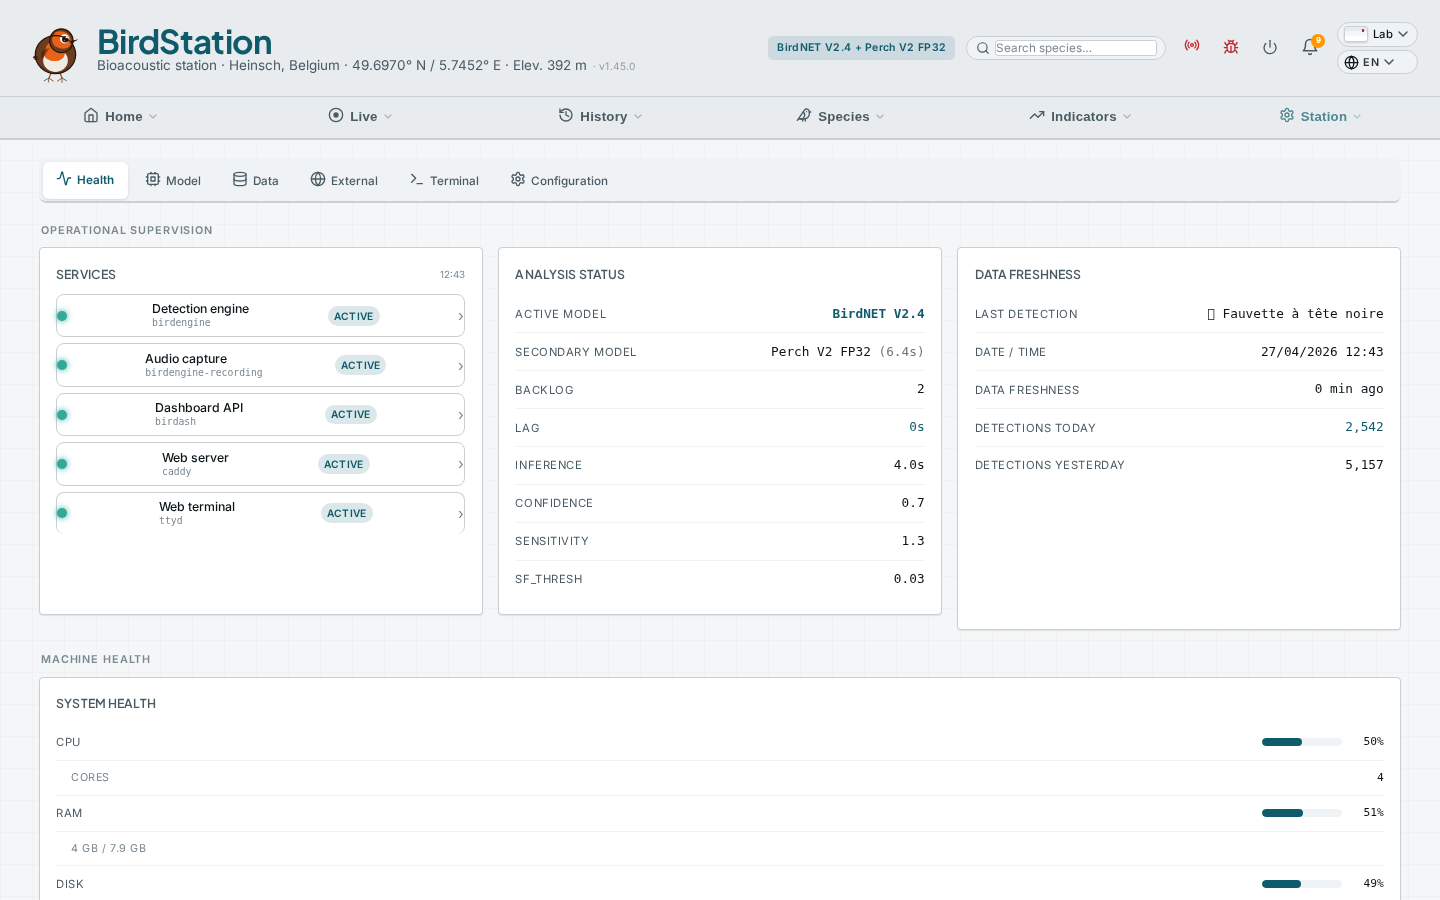
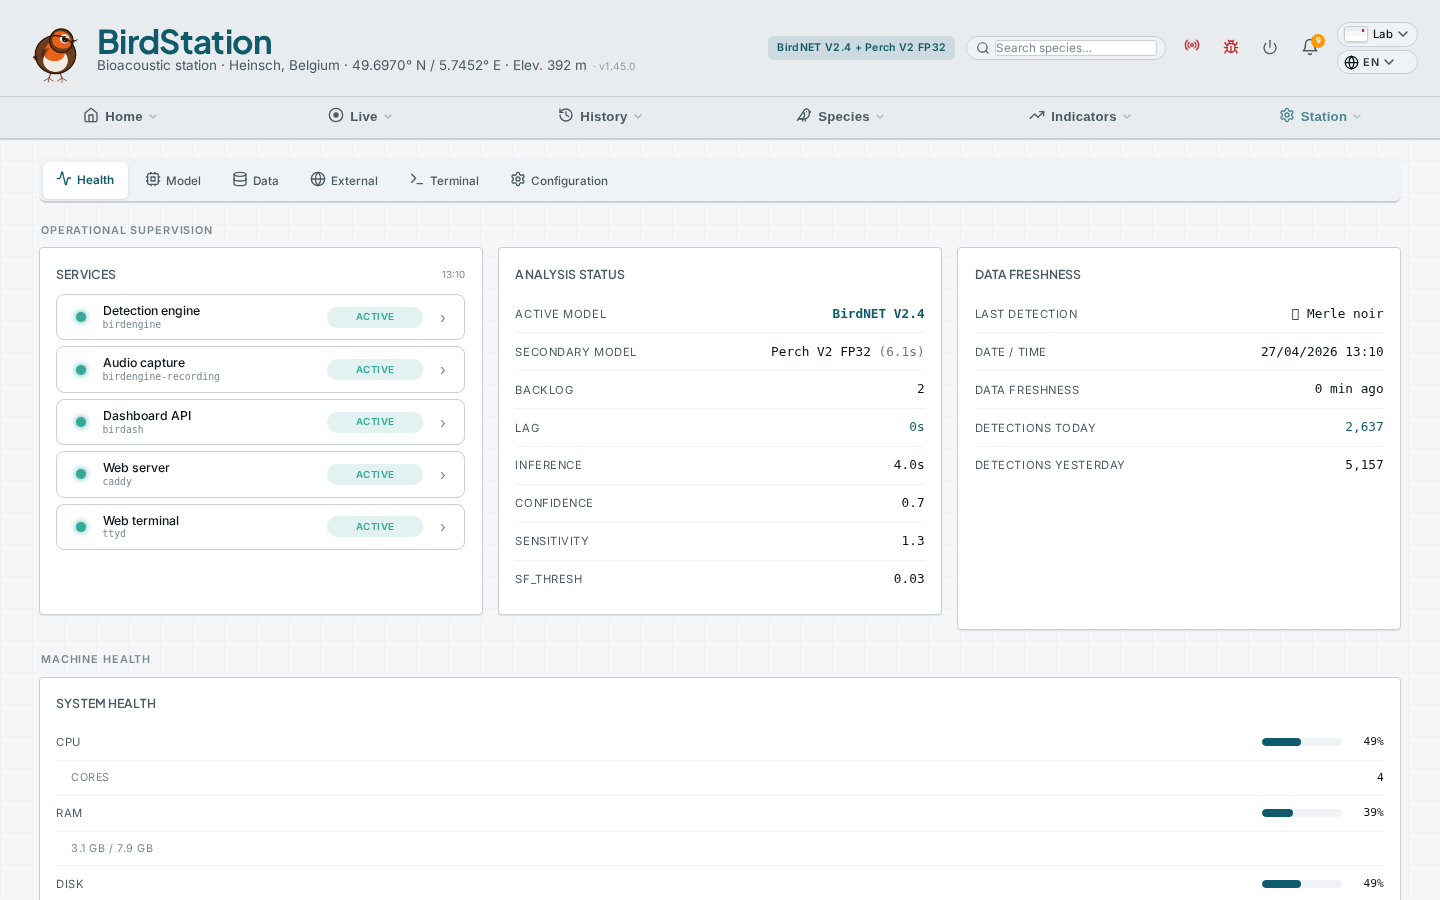
system services: remove dead CSS overriding new svc-row grid layout
La cause des alignements cassés était bien plus profonde que prévu.
Deux blocs de CSS mort dans bird-pages.css (lignes 2907-2914 et
2991-3010) définissaient .svc-row, .svc-name, .svc-state-badge,
.svc-active, .svc-inactive avec d'anciennes valeurs incompatibles.

Par cascade CSS (règles plus tard = poids supérieur à spécificité
égale), ces vieilles règles overridaient silencieusement les
nouvelles définitions du chantier services modal :

  .svc-row { display:flex; ... }
    → écrasait mon display:grid → la grille tabulaire ne s'appliquait pas
  .svc-row:last-child { border-bottom:none }
    → masquait le bord du bas du dernier service ("Web terminal")
  .svc-state-badge { padding:.12rem .4rem }
    → écrasait mon min-width:80px text-align:center, donc badges aux
      largeurs variables impossibles à aligner même avec inline-block

Les anciennes classes .svc-card / .svc-header / .svc-detail / etc.
n'étaient plus utilisées nulle part dans le HTML (vérifié via grep).
Suppression sans risque des deux blocs en doublon.

Résultat visible : labels alignés au même x, badges ACTIVE de largeur
identique, dernière ligne avec son bord du bas visible, dots décollés
du bord gauche, chevrons décollés du bord droit.

Leçon : quand un fix CSS qui DEVRAIT fonctionner ne fonctionne pas,
toujours grep le fichier entier pour des doublons de la même classe.
La cascade peut absorber silencieusement des règles correctes.

SW v234 → v235.

Changed region(s): [[0.0312, 0.3422, 0.3125, 0.6222], [0.8438, 0.3422, 0.9688, 0.3733], [0.0625, 0.9333, 0.0938, 0.9644]]

diff --git a/public/css/bird-pages.css b/public/css/bird-pages.css
@@ -1171,7 +1171,7 @@
       display:grid;
       grid-template-columns: auto 1fr 96px auto;
       gap:.7rem; align-items:center;
-      padding:.55rem 1rem;
+      padding:.6rem 1.25rem;
       border:1px solid var(--border); border-radius:var(--radius);
       margin-bottom:.4rem; cursor:pointer;
       box-sizing:border-box;
@@ -1179,21 +1179,28 @@
     }
     .svc-row:last-child { margin-bottom:0; }   /* évite la marge orpheline qui faisait paraître le bord du bas absent */
     .svc-row:hover { background:var(--bg-card2); border-color:var(--accent-dim); }
-    .svc-row-text { min-width:0; line-height:1.2; }
-    .svc-row-label { font-size:.82rem; font-weight:500; color:var(--text-main); }
+    .svc-row-text { min-width:0; line-height:1.2; text-align:left; }
+    .svc-row-label { font-size:.82rem; font-weight:500; color:var(--text-main); text-align:left; }
     .svc-row-name {
       font-size:.65rem; color:var(--text-faint); font-family:monospace;
       white-space:nowrap; overflow:hidden; text-overflow:ellipsis;
+      text-align:left;
     }
     /* Badge dans la row : largeur fixe + centrage → tous les badges
-       (active/inactive/activating/...) s'alignent verticalement */
+       (active/inactive/activating/...) s'alignent verticalement.
+       display:inline-block est REQUIS car .svc-state-badge est un <span>
+       (donc inline par défaut), et min-width n'a aucun effet sur un
+       élément inline — c'est ça qui faisait paraître les badges
+       désalignés malgré le min-width. */
     .svc-row > .svc-state-badge {
+      display:inline-block;
       min-width:80px; text-align:center;
       padding:.18rem .4rem;
+      box-sizing:border-box;
     }
     .svc-row-chevron {
       font-size:1rem; color:var(--text-faint); line-height:1;
-      padding-left:.15rem;
+      padding-left:.4rem;
     }
 
     /* ── Service detail modal ─────────────────────────────────────── */
@@ -2897,14 +2904,11 @@
     .save-msg { font-size:.9rem; padding:.4rem .8rem; border-radius:6px; }
     .save-ok { background:rgba(90,158,58,.12); color:var(--accent); }
     .save-err { background:rgba(200,60,60,.12); color:#c84b4b; }
-    .svc-row { display:flex; align-items:center; justify-content:space-between; padding:.5rem 0; border-bottom:1px solid var(--border); }
-    .svc-row:last-child { border-bottom:none; }
-    .svc-name { font-family:monospace; font-size:.88rem; }
-    .svc-dot { width:10px; height:10px; border-radius:50%; display:inline-block; margin-right:.5rem; }
-    .svc-active { background:var(--success); }
-    .svc-inactive { background:var(--danger); }
-    .svc-btn { background:transparent; border:1px solid var(--border); border-radius:5px; padding:.3rem .7rem; font-size:.8rem; cursor:pointer; color:var(--text-secondary); }
-    .svc-btn:hover { border-color:var(--accent); color:var(--accent); }
+    /* Bloc dead-code .svc-* supprimé : c'était l'ancienne version flex
+       qui overridait par cascade les nouvelles règles .svc-row grid
+       (causes de l'alignement cassé : display:flex remplaçait grid,
+       border-bottom:1px remplaçait border:1px sur 4 côtés,
+       :last-child{border-bottom:none} masquait la dernière ligne). */
     .section-title { font-size:1.1rem; font-weight:700; margin-bottom:.8rem; display:flex; align-items:center; gap:.5rem; }
     textarea.set-textarea { background:var(--bg-card); border:1px solid var(--border); border-radius:6px; padding:.5rem; color:var(--text); font-size:.85rem; font-family:monospace; width:100%; min-height:120px; resize:vertical; }
     textarea.set-textarea:focus { outline:none; border-color:var(--accent); }
@@ -2981,26 +2985,12 @@
     .health-fill.bar-danger{background:var(--danger);}
     .health-pct{font-size:.75rem;font-family:monospace;min-width:36px;text-align:right;}
 
-    .svc-card{border:1px solid var(--border);border-radius:.4rem;margin-bottom:.5rem;overflow:hidden;}
-    .svc-header{display:flex;align-items:center;gap:.5rem;padding:.5rem .65rem;cursor:pointer;transition:background .15s;}
-    .svc-header:hover{background:var(--bg-card2);}
-    .svc-name{flex:1;font-size:.82rem;font-weight:600;color:var(--text-main);}
-    .svc-state-badge{font-size:.68rem;padding:.12rem .4rem;border-radius:10px;font-weight:600;text-transform:uppercase;letter-spacing:.03em;}
-    .svc-active{background:color-mix(in srgb,var(--accent) 15%,transparent);color:var(--accent);}
-    .svc-failed{background:color-mix(in srgb,var(--danger) 15%,transparent);color:var(--danger);}
-    .svc-inactive,.svc-dead,.svc-stopped{background:var(--bg-card2);color:var(--text-faint);}
-    .svc-chevron{font-size:.6rem;color:var(--text-faint);transition:transform .2s;display:inline-block;}
-    .svc-chevron.open{transform:rotate(90deg);}
-    .svc-detail{padding:.65rem;border-top:1px solid var(--border);background:var(--bg-deep);}
-    .svc-info-grid{display:flex;flex-wrap:wrap;gap:.75rem;font-size:.78rem;color:var(--text-muted);margin-bottom:.65rem;}
-    .svc-actions{display:flex;gap:.4rem;margin-bottom:.65rem;}
-    .svc-btn{padding:.25rem .55rem;border:1px solid var(--border);border-radius:.3rem;font-size:.72rem;font-family:inherit;cursor:pointer;background:var(--bg-card);color:var(--text-main);transition:all .15s;}
-    .svc-btn:disabled{opacity:.4;cursor:not-allowed;}
-    .svc-btn-start:not(:disabled):hover{border-color:var(--accent);color:var(--accent);}
-    .svc-btn-stop:not(:disabled):hover{border-color:var(--danger);color:var(--danger);}
-    .svc-btn-restart:not(:disabled):hover{border-color:var(--warning);color:var(--warning);}
-    .svc-logs{max-height:200px;overflow-y:auto;}
-    .svc-logs pre{font-size:.68rem;line-height:1.45;color:var(--text-muted);margin:0;white-space:pre-wrap;word-break:break-all;}
+    /* Bloc dead-code .svc-card / .svc-header / .svc-state-badge / .svc-active /
+       .svc-failed / .svc-inactive / .svc-chevron / .svc-detail / .svc-info-grid /
+       .svc-actions / .svc-btn / .svc-logs supprimé : ancien système d'expansion
+       inline remplacé par .svc-row grid + .svc-modal. Ces règles overridaient
+       par cascade les nouvelles définitions (lignes 1166+) — c'est ce qui
+       faisait paraître les badges désalignés malgré display:inline-block + min-width:80px. */
 
 /* ── log.html */
     .log-kpis { display:flex; gap:.8rem; flex-wrap:wrap; margin-bottom:.75rem; }

diff --git a/public/sw.js b/public/sw.js
@@ -4,7 +4,7 @@
  * Stratégie : cache-first pour les assets, network-first pour l'API.
  */
 
-const CACHE_NAME = 'birdash-v232';
+const CACHE_NAME = 'birdash-v235';
 
 // Assets statiques à pré-cacher à l'installation
 const PRECACHE = [